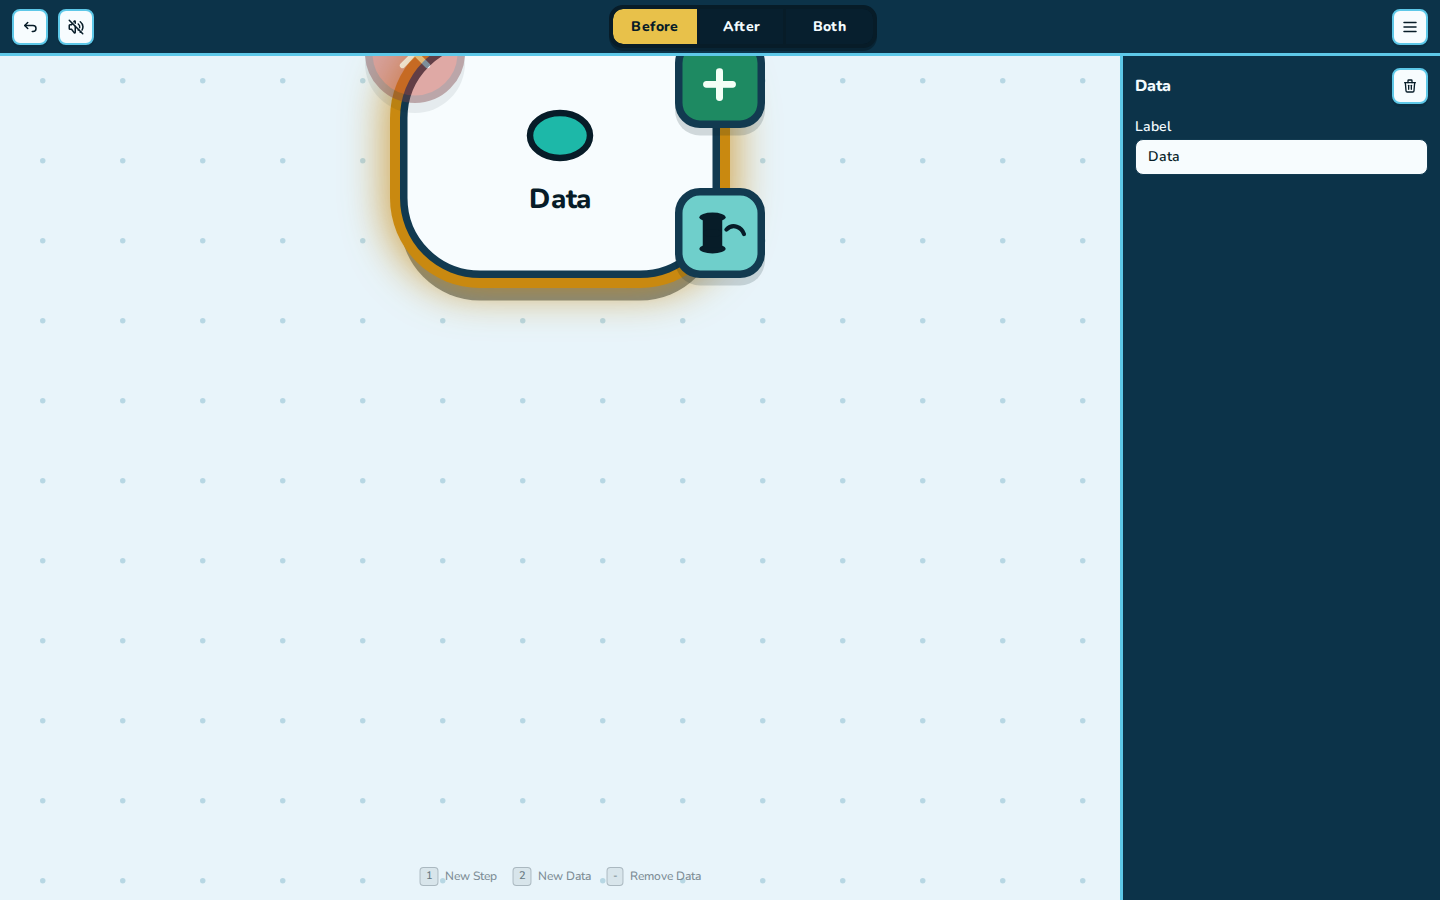
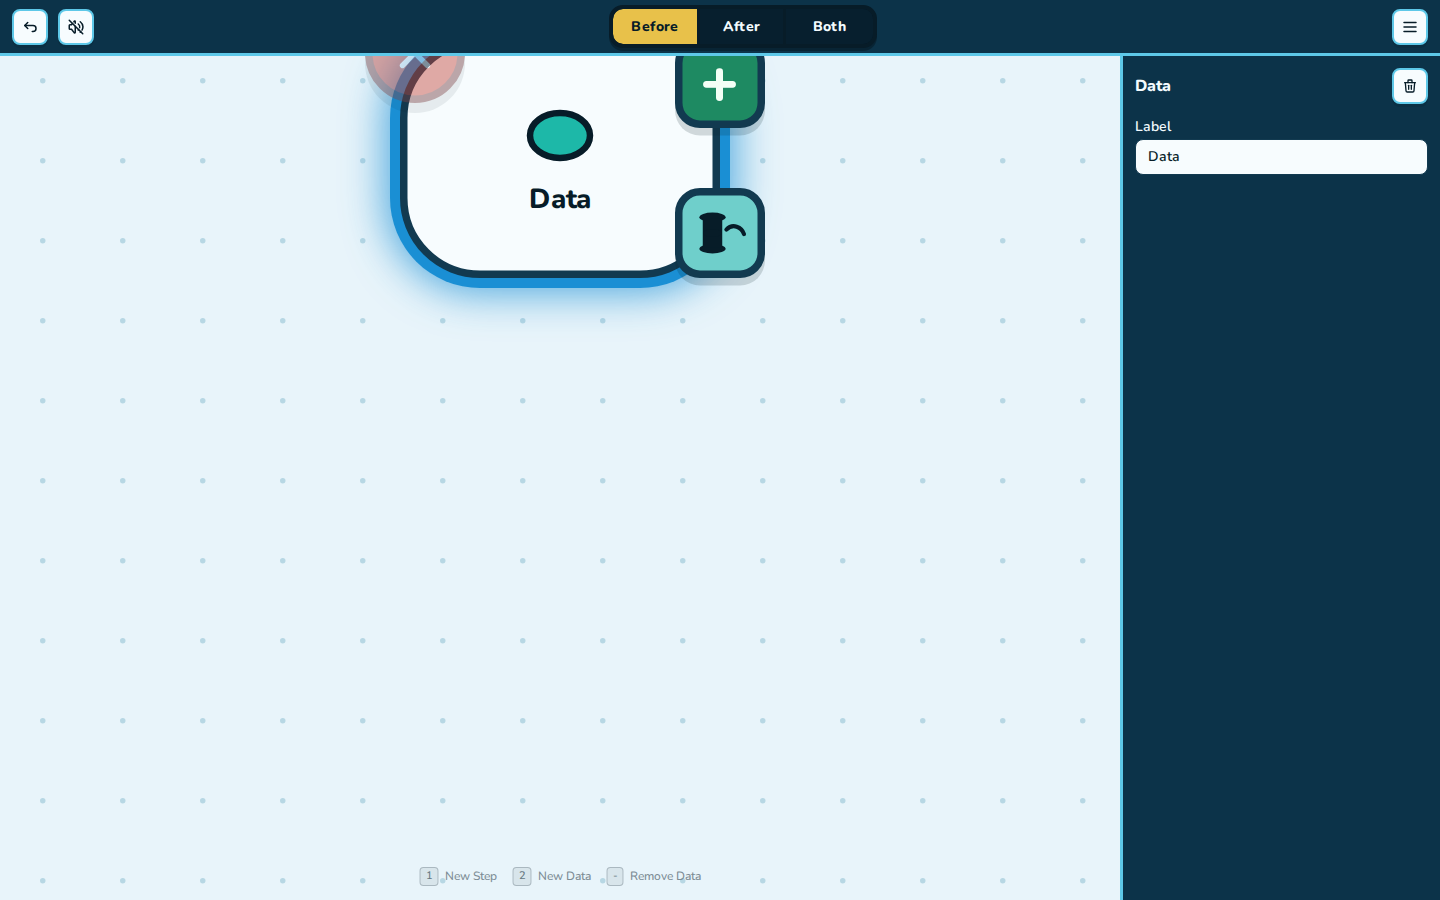
feat(improve-09): blue select and Data Path stroke

Changed region(s): [[0.25, 0.0622, 0.5, 0.3733], [0.5, 0.1244, 0.5312, 0.2178]]

diff --git a/src/workflow/graph.test.ts b/src/workflow/graph.test.ts
@@ -49,10 +49,20 @@ test("a PositionMap reorders siblings and the WG-09 default follows it", () => {
   expect(outgoingSorted(nodes, edges, "a", { b: { x: 0, y: 5 } }).map((e) => e.id)).toEqual(["e2", "e1"]);
 });
 
-test("PC-02: One of makes every outgoing Path dotted; a single outgoing is solid", () => {
+function data(id: string, y: number): NodeDto {
+  return {
+    id,
+    type: WorkflowNodeKind.DataField,
+    position: { x: 0, y },
+    label: "d",
+  };
+}
+
+test("PC-02: omitted stroke follows Split; an explicit dashed flag wins even on one outgoing", () => {
   const nodes = [step("a", 0), step("b", 0), step("c", 40)];
   const one: EdgeDto[] = [{ id: "e1", source: "a", target: "b", label: "" }];
   expect(edgeIsDotted(nodes, one, one[0]!)).toBe(false);
+  expect(edgeIsDotted(nodes, one, { ...one[0]!, dashed: true })).toBe(true);
   expect(splitDefaultDashed(SplitKind.Exclusive, 1)).toBe(false);
   expect(splitDefaultDashed(SplitKind.Exclusive, 2)).toBe(true);
   expect(splitDefaultDashed(SplitKind.Parallel, 2)).toBe(false);
@@ -70,6 +80,10 @@ test("PC-02: One of makes every outgoing Path dotted; a single outgoing is solid
   ];
   expect(edgeIsDotted(nodes, mixed, mixed[0]!)).toBe(false);
   expect(edgeIsDotted(nodes, mixed, mixed[1]!)).toBe(true);
+
+  const fromData = [data("d", 0), step("b", 0)];
+  const dataOut: EdgeDto[] = [{ id: "e1", source: "d", target: "b", label: "", dashed: true }];
+  expect(edgeIsDotted(fromData, dataOut, dataOut[0]!)).toBe(true);
 });
 
 test("PC-03: changing Split re-applies the default stroke to every outgoing Path", () => {

diff --git a/src/app/inspector/SelectedItemForm.tsx b/src/app/inspector/SelectedItemForm.tsx
@@ -181,7 +181,6 @@ export function DetailsPanel() {
     if (!e) return null;
     const graph =
       view === ViewMode.After ? afterGraph(workflow) : { nodes: workflow.nodes, edges: workflow.edges };
-    const outs = graph.edges.filter((x) => x.source === e.source).length;
     const dotted = edgeIsDotted(graph.nodes, graph.edges, e);
     return (
       <Stack gap="xs" p="sm" className="chrome-hide">
@@ -192,18 +191,16 @@ export function DetailsPanel() {
           readOnly={readOnly}
           onChange={(ev) => useStore.getState().updateEdge(e.id, { label: ev.target.value })}
         />
-        {outs >= 2 ? (
-          <FatChoice
-            label="Path stroke"
-            value={dotted ? "dotted" : "solid"}
-            disabled={readOnly}
-            onChange={(v) => useStore.getState().updateEdge(e.id, { dashed: v === "dotted" })}
-            options={[
-              { value: "dotted", label: "Dotted" },
-              { value: "solid", label: "Solid" },
-            ]}
-          />
-        ) : null}
+        <FatChoice
+          label="Path stroke"
+          value={dotted ? "dotted" : "solid"}
+          disabled={readOnly}
+          onChange={(v) => useStore.getState().updateEdge(e.id, { dashed: v === "dotted" })}
+          options={[
+            { value: "dotted", label: "Dotted" },
+            { value: "solid", label: "Solid" },
+          ]}
+        />
       </Stack>
     );
   }

diff --git a/src/state/store.actors.test.ts b/src/state/store.actors.test.ts
@@ -66,13 +66,13 @@ test("changing Split re-applies default strokes (PC-02, PC-03)", () => {
   expect(useStore.getState().workflow.edges.find((e) => e.id === gt)?.dashed).toBe(true);
 });
 
-test("toggleSelectedDash no-ops for a lone outgoing Path; two-outgoing toggles only that Path", () => {
-  const { gt, lt, enterReview } = OAK_PARK_IDS;
+test("toggleSelectedDash toggles that Path only, including a Data-sourced lone Path", () => {
+  const { gt, lt, acctEnter } = OAK_PARK_IDS;
   const s = useStore.getState();
-  s.select({ type: SelectionKind.Edge, id: enterReview });
-  const loneBefore = useStore.getState().workflow.edges.find((e) => e.id === enterReview)?.dashed;
+  s.select({ type: SelectionKind.Edge, id: acctEnter });
+  expect(useStore.getState().workflow.edges.find((e) => e.id === acctEnter)?.dashed).toBe(false);
   s.toggleSelectedDash();
-  expect(useStore.getState().workflow.edges.find((e) => e.id === enterReview)?.dashed).toBe(loneBefore);
+  expect(useStore.getState().workflow.edges.find((e) => e.id === acctEnter)?.dashed).toBe(true);
 
   s.select({ type: SelectionKind.Edge, id: gt });
   expect(useStore.getState().workflow.edges.find((e) => e.id === gt)?.dashed).toBe(true);

diff --git a/src/workflow/graph.ts b/src/workflow/graph.ts
@@ -77,18 +77,19 @@ export function splitDefaultDashed(split: SplitKind, outgoingCount: number): boo
 }
 
 /**
- * Stroke for one Path (PC-01, PC-02). A single outgoing Path is always solid.
- * Otherwise an explicit `dashed` flag wins; omitted flags follow Split.
+ * Stroke for one Path (PC-01). Explicit `dashed` always wins, including a
+ * single outgoing Path and Paths whose source is Data. Omitted flags follow
+ * Step Split (PC-02) when that Step has two or more outgoing Paths.
  */
 export function edgeIsDotted(
   nodes: NodeDto[],
   edges: EdgeDto[],
   edge: EdgeDto,
 ): boolean {
-  const outs = outgoingSorted(nodes, edges, edge.source);
-  if (outs.length < 2) return false;
   if (edge.dashed === true) return true;
   if (edge.dashed === false) return false;
+  const outs = outgoingSorted(nodes, edges, edge.source);
+  if (outs.length < 2) return false;
   const src = nodeOf(nodes, edge.source);
   if (!src || src.type !== WorkflowNodeKind.Step) return false;
   return splitDefaultDashed(src.split, outs.length);

diff --git a/e2e/improve-09-chrome-root.spec.ts b/e2e/improve-09-chrome-root.spec.ts
@@ -3,6 +3,7 @@ import {
   DEMO_STEP,
   capturePage,
   loadOakPark,
+  pathScreenPoint,
   tabPeekPoint,
   waitForLayout,
 } from "./ready";
@@ -118,5 +119,14 @@ test.describe("Improvement 09 — tile chrome, Data root, After removal", () => 
     await expect(page.getByText("This board is empty.")).toBeVisible();
     await expect(page.getByRole("button", { name: "Add Step" })).toBeVisible();
     await expect(page.getByRole("button", { name: "Add Data" })).toBeVisible();
+  });
+
+  test("double-click a Path out of Data draws dotted (same Path as Step)", async ({ page }) => {
+    await loadOakPark(page);
+    const onto = await pathScreenPoint(page, "e_acct_enter", 0.5);
+    await page.mouse.dblclick(onto.x, onto.y);
+    await expect(page.locator("path#e_acct_enter")).toHaveClass(/path-stroke-dotted/);
+    await expect(aside(page).getByRole("button", { name: "Dotted" })).toHaveAttribute("aria-pressed", "true");
+    await capturePage(page, `${EVIDENCE}/data-path-dotted-1440.png`);
   });
 });

diff --git a/src/app/styles/tokens.css b/src/app/styles/tokens.css
@@ -30,7 +30,7 @@
   --minus: #c4453a;
   --minus-active: #9e3229;
   --select-ring: rgba(26, 143, 212, 0.5);
-  --select-glow: #c98910;
+  --select-glow: var(--blue);
   --actor-empty: #cfe8f2;
   --banner: #d4f0f8;
   --mantine-color-dimmed: var(--ink-soft);
@@ -62,7 +62,7 @@
   --minus: #e06a5e;
   --minus-active: #c44d42;
   --select-ring: rgba(126, 182, 224, 0.65);
-  --select-glow: #f3cc5a;
+  --select-glow: var(--blue);
   --actor-empty: #2a4554;
   --banner: #1e3f4e;
   --mantine-color-dimmed: var(--ink-soft);
@@ -768,8 +768,7 @@ body,
 .step-piece.selected,
 .field-piece.selected {
   box-shadow: 0 0 0 4px var(--select-glow),
-    0 0 16px 6px color-mix(in srgb, var(--select-glow) 75%, transparent),
-    0 9px 0 color-mix(in srgb, var(--ink) 50%, transparent);
+    0 0 16px 6px color-mix(in srgb, var(--select-glow) 75%, transparent);
 }
 
 .step-piece.selected.is-lifted {

diff --git a/src/app/App.test.tsx b/src/app/App.test.tsx
@@ -127,6 +127,15 @@ test("Path inspector has label plus Dotted / Solid (NA-07)", () => {
   expect(host.querySelector("#path-condition-field")).not.toBeNull();
 });
 
+test("Path inspector Dotted / Solid is shown for a Data-sourced Path", () => {
+  act(() => {
+    useStore.getState().select({ type: SelectionKind.Edge, id: OAK_PARK_IDS.acctEnter });
+  });
+  const rail = host.querySelector(".details-rail-body")?.textContent ?? "";
+  expect(rail).toMatch(/Dotted/);
+  expect(rail).toMatch(/Solid/);
+});
+
 test("sound toggle is off by default and Present restores the inspector", () => {
   expect(host.querySelector('[aria-label="Sound off"]')).not.toBeNull();
   expect(host.querySelector('[aria-pressed="false"]')).not.toBeNull();

diff --git a/src/state/store.ts b/src/state/store.ts
@@ -971,8 +971,6 @@ export const useStore = create<{
     if (!edge) return;
     const graph =
       view === ViewMode.After ? afterGraph(workflow) : { nodes: workflow.nodes, edges: workflow.edges };
-    const outs = graph.edges.filter((e) => e.source === edge.source).length;
-    if (outs < 2) return;
     updateEdge(selected.id, { dashed: !edgeIsDotted(graph.nodes, graph.edges, edge) });
   },
   focusPathLabel: () => {

diff --git a/.docs/GOAL.md b/.docs/GOAL.md
@@ -181,3 +181,5 @@ Append only, newest last. Format: `- YYYY-MM-DD — <clause IDs> — <decision a
 - 2026-09-08 — NG-02 — After may insert a Before-origin Tile onto a base Path (same as Before). The root still cannot insert. Merge stays withdrawn. — approved by user
 - 2026-09-08 — CX-01, WG-07 — Selected-tile `+` and Path tabs sit **on top** of the tile’s right edge (same stacking as the X). The pulled `+` taffy and Path string emerge from **under** the tile face; the `+` / Path ghost stays on top. — approved by user
 - 2026-09-08 — CX-07 — Selected Step/Data uses a gold halo on the tile face (box-shadow rim and glow, plus a stronger ground shadow), not a CSS outline on the chrome. — approved by user
+- 2026-09-08 — CX-07 — Selected Step/Data uses a blue halo on the tile face and no ground shadow (flat). Drag-lift may still raise a tile. — approved by user
+- 2026-09-08 — PC-01, PC-02, PC-03 — Every Path is the same object: dotted or solid. Step and Data ends do not change Path type. The drawn stroke is that Path’s own flag, including a single outgoing Path. Double-click, inspector Dotted/Solid, and the keybind toggle that Path. Split still seeds new outgoing Paths from a Step (exclusive + two or more → dotted). — approved by user

diff --git a/.docs/handoff.md b/.docs/handoff.md
@@ -1164,3 +1164,14 @@ Corrections in the same chat before the next slice starts get their own short en
   - `npm run test:e2e` — pass (86 passed, Chromium, 3 workers, 52.3s)
 - Status: COMPLETE
 - Commit: `feat(improve-09): make selected tile glow`
+
+## Improvement 09 — correction 3 — 2026-09-08
+
+- Requested: Double-click Paths that involve Data should go dotted (same Path type as Step — only dotted/solid). Selected tile should be a blue halo without a ground shadow (flat, not gold).
+- Changed: `edgeIsDotted` honors explicit `dashed` for any source and lone outgoing; `toggleSelectedDash` no longer no-ops; Path inspector always shows Dotted/Solid. Select glow is `--blue` with no ground shadow. GOAL PC-01/PC-02/PC-03 and CX-07 amendments.
+- Tests and exact results:
+  - `npm run build` — pass (`tsc --noEmit && vite build`; Vite 8.2.2; existing chunk-size warning)
+  - `npm run test:unit` — pass (31 files, 171 tests)
+  - `npm run test:e2e` — pass (87 passed, Chromium, 3 workers, 53.8s)
+- Status: COMPLETE
+- Commit: `feat(improve-09): blue select and Data Path stroke`
